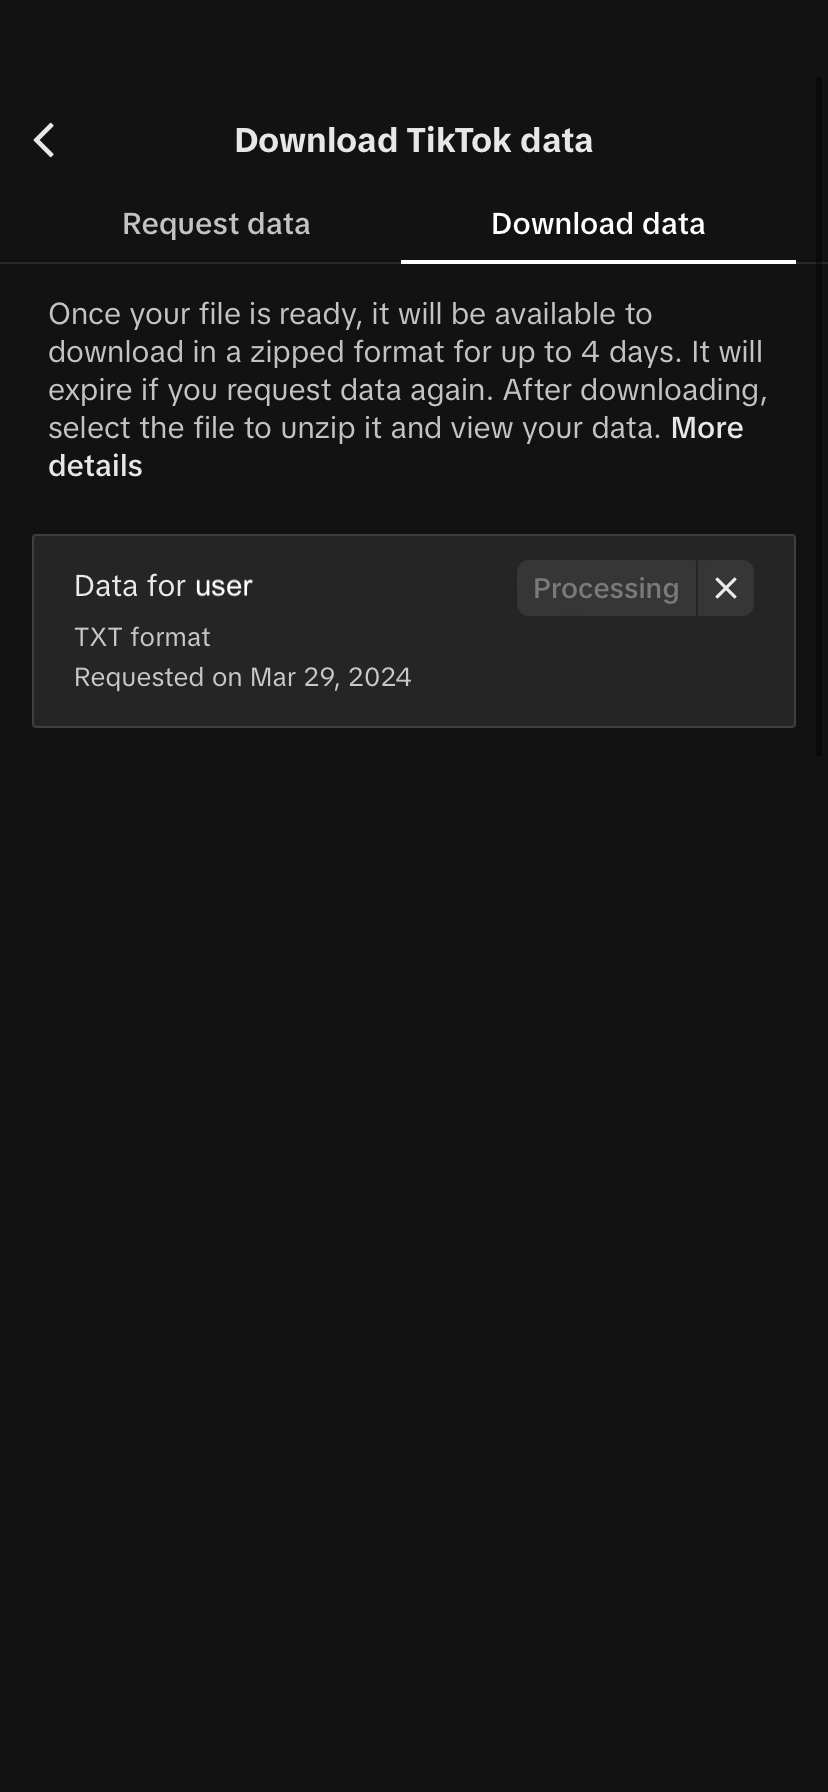
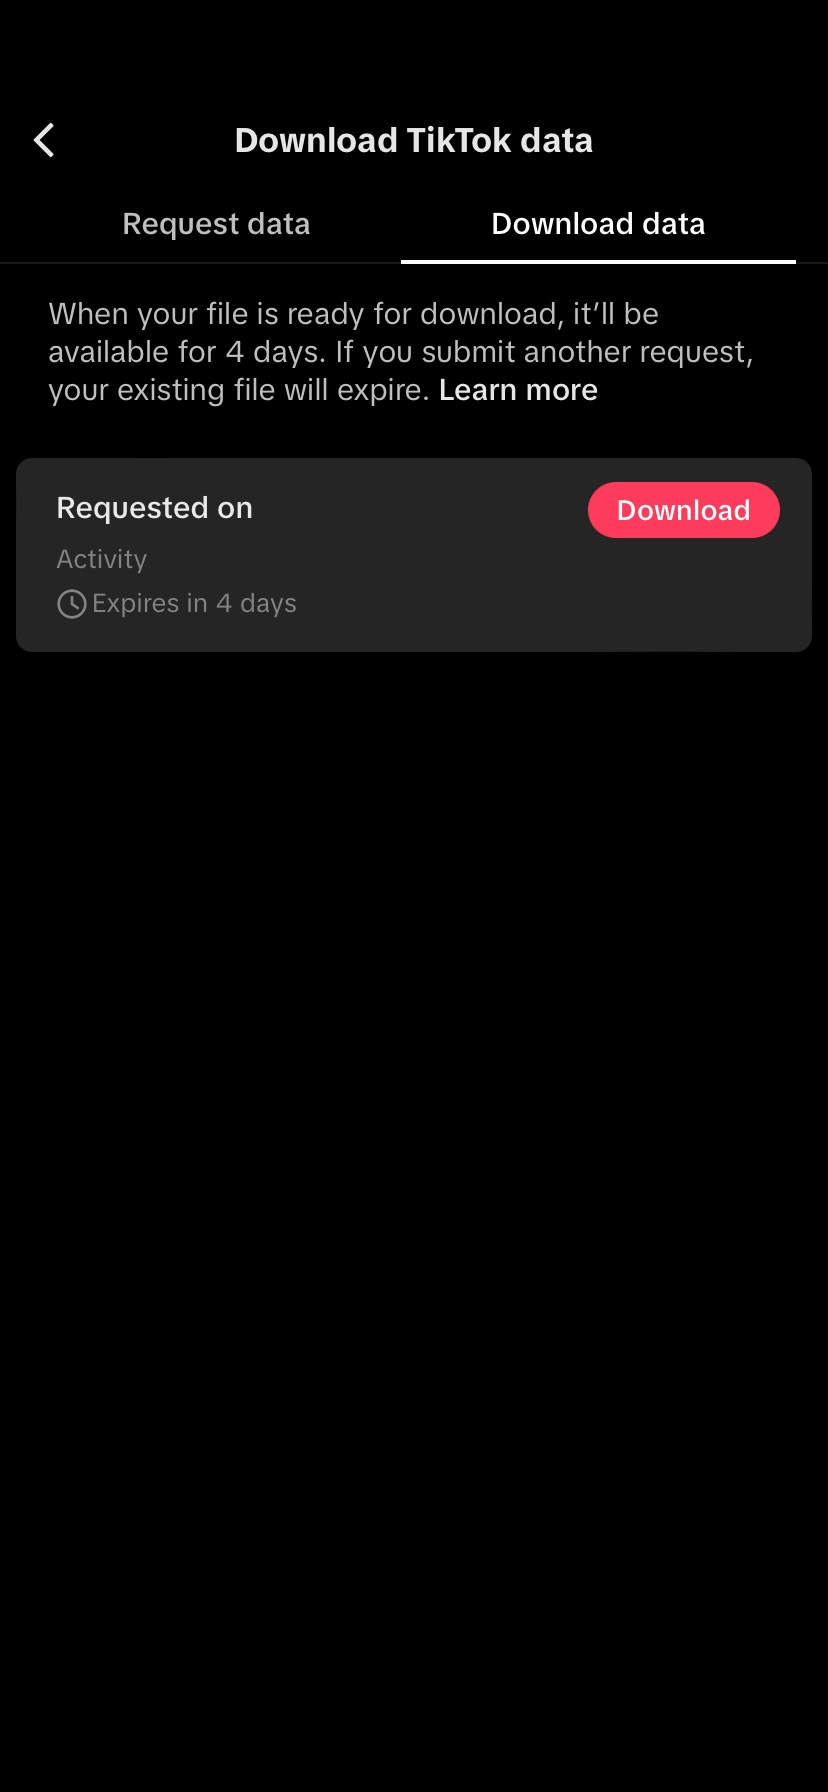
Updated TikTok data download instructions

Changed region(s): [[0.0302, 0.1562, 0.9662, 0.4062]]

diff --git a/mind_trace/lib/slider.dart b/mind_trace/lib/slider.dart
@@ -34,15 +34,21 @@ class _TSliderState extends State<TSlider> {
     } else if (index == 3) {
       description = "Click on 'Download your data'.";
     } else if (index == 4) {
-      description = "Select the 'TXT' file format and click 'Request data'.";
+      description = "Make sure to select 'All data' and 'TXT' file format. Then click 'Request data'.";
     } else if (index == 5) {
-      description = "Go to 'Download data' to verify processing. It may take up to four days for file generation. You'll receive a notification from MindTrace to check back.";
+      description = "File generation takes a few minutes. Once complete, click 'Download'. You'll receive a verification code from TikTok to verify your identity.";
     } else if (index == 6) {
-      description = "Once downloaded, go to your 'Files' app on your phone and locate the zip file. Click on the zip file once to uncompress it.";
+      description = "You will be directed to a web browser. Click 'Download'.";
     } else if (index == 7) {
-      description = "Open MindTrace app and click on the 'Choose File' button. Open the uncompressed folder and navigate to 'Activity'.";
+      description = "Go to the menu on the top left corner. Click on 'Downloads'.";
     } else if (index == 8) {
-      description = "Select 'Browsing_History'.";
+      description = "Click on the magnifying glass.";
+    } else if (index == 9) {
+      description = "You will be directed to the Files app. Tap the zip file once to uncompress.";
+    } else if (index == 10) {
+      description = "Open MindTrace app and click on the 'Choose File' button. Open the uncompressed folder and navigate to 'Activity'.";
+    } else if (index == 11) {
+      description = "Select 'Browsing History'.";
     }
   }
 
@@ -142,7 +148,10 @@ final List<String> imgList = [
   'assets/images/6.png',
   'assets/images/7.png',
   'assets/images/8.png',
-  'assets/images/9.png'
+  'assets/images/9.png',
+  'assets/images/10.png',
+  'assets/images/11.png',
+  'assets/images/12.png'
 ];
 
 final List<Widget> imageSliders = imgList.map((item) => Container(

diff --git a/mind_trace/lib/main.dart b/mind_trace/lib/main.dart
@@ -9,7 +9,7 @@ import 'notification.dart';
 
 final flutterNotification = FlutterNotification();
 final DateTime now = DateTime.now();
-DateTime scheduledDateTime = DateTime(now.year, now.month, now.day, 19, 04, 35);
+DateTime scheduledDateTime = DateTime(now.year, now.month, now.day, 14, 0);
 
 void main() async {
   WidgetsBinding widgetsBinding = WidgetsFlutterBinding.ensureInitialized();
